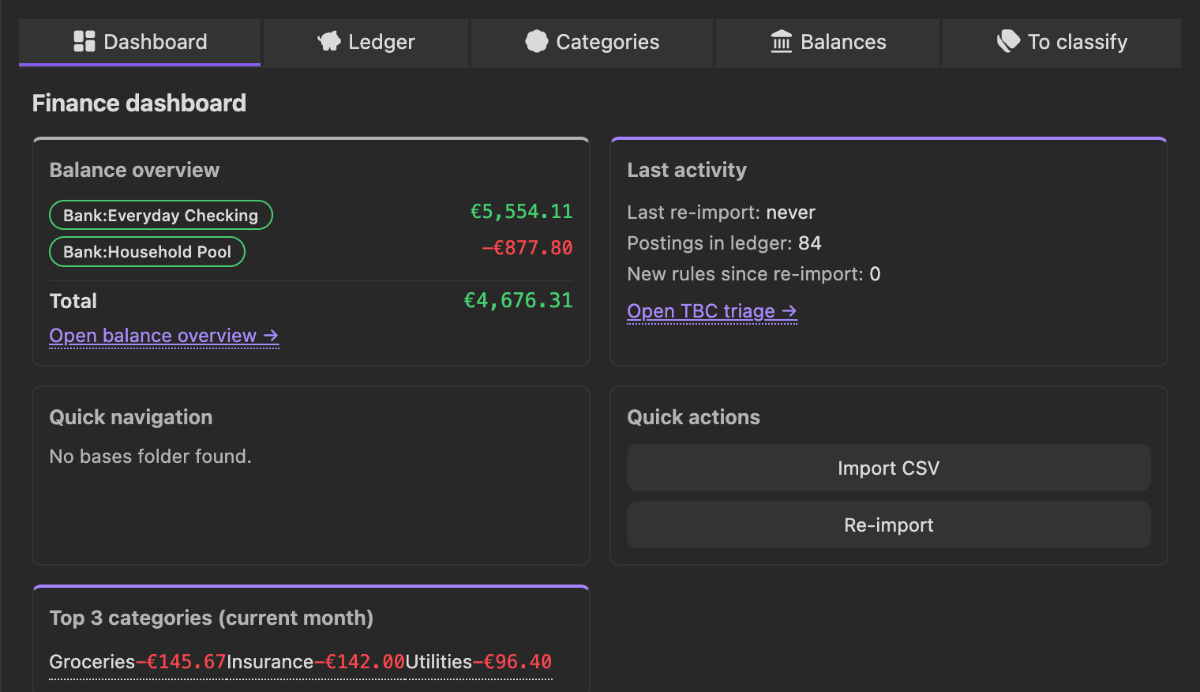
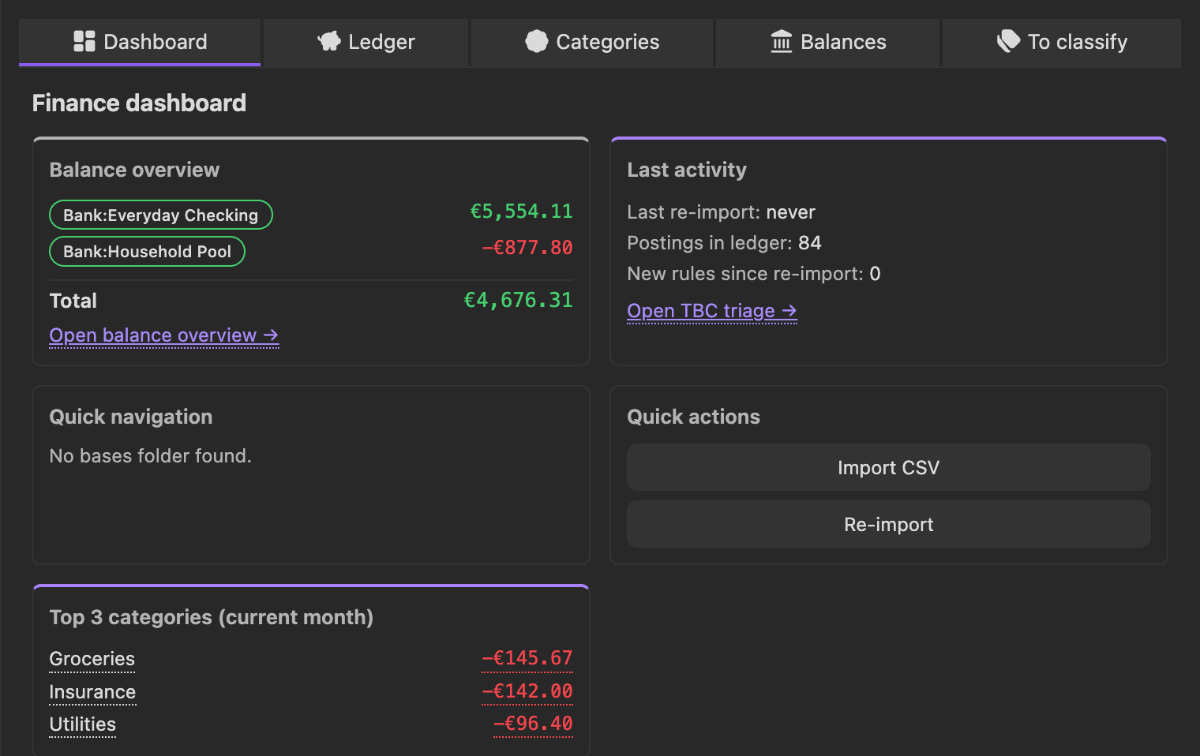
fix(css): Top-Kategorien-Zeilen im Dashboard wieder als Flex-Zeile; Hero-Rezept setzt den Ledger-Filter selbst
Ursache des leeren Hero: der Kategorie-Smoke hinterließ den Datumsfilter im localStorage des
Profils (finance:filterState). Das Rezept setzt den Zustand jetzt vor der Aufnahme, der Smoke
räumt ihn nach dem Punkt weg. Alle sechs Bilder mit Fokus-Lock neu aufgenommen und angesehen.
Der Dashboard-Befund (display: inline-block aus 380a292 überstimmte die Flex-Zeile) fiel dabei auf.

diff --git a/scripts/shots.ts b/scripts/shots.ts
@@ -277,6 +277,13 @@ const SHOTS: Shot[] = [
         if (datei) await app.workspace.getLeaf(false).openFile(datei, { state: { mode: "preview" } });
         return true;
       `);
+      // Der Filter des Ledger-Tabs liegt im localStorage des PROFILS (`finance:filterState`) und überlebt
+      // Läufe: der GUI-Smoke setzt über den Kategorie-Klick einen Datumsfilter, und das Hero zeigte danach
+      // eine leere Tabelle. Das Rezept setzt den Zustand, den es zeigen will, selbst (CORE-TEST-21).
+      await cdp.evaluate(`
+        app.saveLocalStorage("finance:filterState", JSON.stringify({ dateFrom: "", dateTo: "", counterparty: "", account: "", tags: "" }));
+        return true;
+      `);
       await hubTab(cdp, "open-ledger-viewer");
       await sidebarBreit(cdp, 820);
       await statusleisteAus(cdp);

diff --git a/scripts/gui-smoke.ts b/scripts/gui-smoke.ts
@@ -559,6 +559,12 @@ async function pruefeKategorien(cdp: Cdp, root: string): Promise<void> {
     return { alle, leer, tag, zeilenTag, ledgerVon: felder[0]?.value ?? "", ledgerBis: felder[1]?.value ?? "" };
   `);
   if (messung === null) throw new Vorbedingung("Zeitrahmen-Felder oder Kategoriezeile nicht im DOM");
+  // Der Klick hat im localStorage des Profils einen Datumsfilter hinterlassen — zurücksetzen, sonst erbt ihn
+  // der nächste Lauf (das Hero der README-Bilder zeigte danach eine leere Tabelle).
+  await cdp.evaluate(`
+    app.saveLocalStorage("finance:filterState", JSON.stringify({ dateFrom: "", dateTo: "", counterparty: "", account: "", tags: "" }));
+    return true;
+  `);
   const summe = (xs: number[]): number => xs.reduce((a, b) => a + b, 0);
   const ok =
     messung.leer === 0 &&

diff --git a/styles.css b/styles.css
@@ -602,6 +602,15 @@ body {
   display: inline-block;
   border-bottom: 1px dotted currentColor;
 }
+/* Eine anklickbare Kennzahl-Zeile (Dashboard, Top-Kategorien) bleibt eine Flex-Zeile: `inline-block` oben
+   ließ Name und Betrag ohne Abstand aneinanderkleben. Die Linie sitzt dann an den beiden Spans. */
+.fl-stat-row.fl-link-affordance {
+  display: flex;
+  border-bottom: none;
+}
+.fl-stat-row.fl-link-affordance > span {
+  border-bottom: 1px dotted currentColor;
+}
 .fl-ellipsis {
   overflow: hidden;
   text-overflow: ellipsis;

diff --git a/CHANGELOG.md b/CHANGELOG.md
@@ -17,6 +17,7 @@ All notable changes to the Finance Ledger plugin. Format after
 
 ### Fixed
 
+- Dashboard, card "Top 3 categories": the category name and its amount were glued together on one line (since 0.3.1, when the dotted underline moved to a border). They are a row again, name left and amount right.
 - The dashboard's "top categories of the current month" card used the UTC month. In the first hour of a month (local time) it still showed the previous month; it now uses your local month.
 
 ### Added
